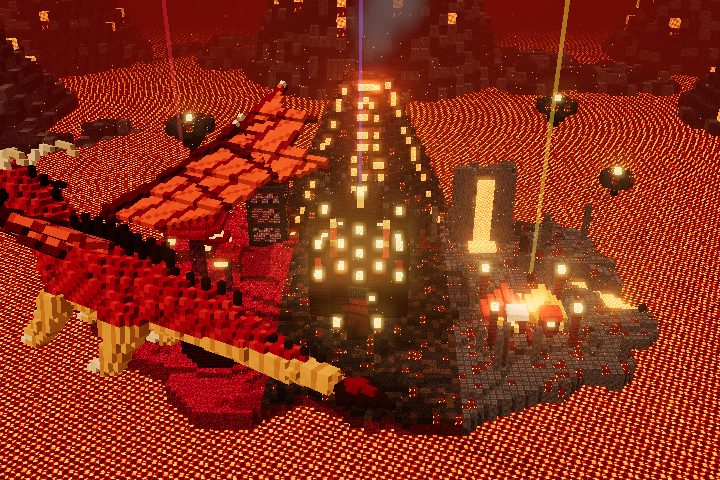
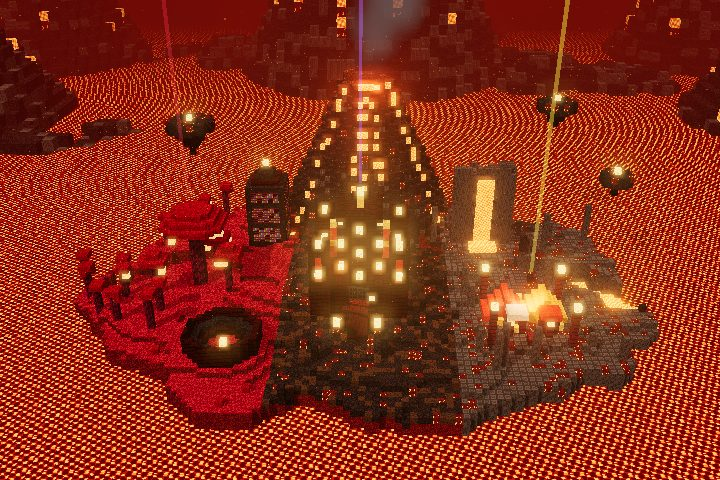
Geschmeidiger Flug, Adler verschwindet in Wolken, Weltname unter Klasse, Rang in allen Welten, weiche runde Lichter
Claude-Session: https://claude.ai/code/session_01VyrGtGhpmUQ9uCwobRxi57

diff --git a/lernwelt/welt3d.js b/lernwelt/welt3d.js
@@ -136,6 +136,8 @@ export async function start(o){
     if(d.anim) anim.push([d.side, d.anim], ...(d.top && d.top!==d.side ? [[d.top, d.anim]] : []));
     return mats[t] = [side,side,top,bot,side,side]; };
   let count = 0;
+  let _halo = null; const haloTex = () => _halo || (_halo = (()=>{ const c=document.createElement("canvas"); c.width=c.height=64; const g=c.getContext("2d"), gr=g.createRadialGradient(32,32,0,32,32,32);
+    gr.addColorStop(0,"rgba(255,255,255,1)"); gr.addColorStop(.18,"rgba(255,255,255,.75)"); gr.addColorStop(.5,"rgba(255,255,255,.18)"); gr.addColorStop(1,"rgba(255,255,255,0)"); g.fillStyle=gr; g.fillRect(0,0,64,64); return new THREE.CanvasTexture(c); })());
   const addStore = (store, cell, isFar) => { const groups = {}, g = store.get; let minY = 1e9; for(const [, b] of store.V) if(b[1]<minY) minY=b[1];
     for(const [, b] of store.V){ const [x,y,z,t] = b; if(!B[t]) continue;
       const vis = B[t].alpha || !solid(g(x+1,y,z)) || !solid(g(x-1,y,z)) || !solid(g(x,y+1,z)) || (y>minY && !solid(g(x,y-1,z))) || !solid(g(x,y,z+1)) || !solid(g(x,y,z-1));
@@ -144,7 +146,12 @@ export async function start(o){
       const mesh = new THREE.InstancedMesh(box, matsFor(t), groups[t].length);
       groups[t].forEach((b,i)=>{ dummy.position.set((b[0]+.5)*cell,(b[1]+.5)*cell,(b[2]+.5)*cell); dummy.scale.setScalar((d.scale||1)*cell); dummy.updateMatrix(); mesh.setMatrixAt(i,dummy.matrix); });
       mesh.castShadow = !isFar && !d.em && !d.alpha; mesh.receiveShadow = !isFar && !d.alpha; if(d.alpha) mesh.renderOrder = 2;
-      mesh.frustumCulled = false; scene.add(mesh); count += groups[t].length; } };
+      mesh.frustumCulled = false; scene.add(mesh); count += groups[t].length;
+      // runder, weicher Lichtschein um Lampen (statt harter Würfelkanten)
+      if(d.halo && !isFar){ const pos = new Float32Array(groups[t].length*3); groups[t].forEach((b,i)=>{ pos[i*3]=b[0]+.5; pos[i*3+1]=b[1]+.5; pos[i*3+2]=b[2]+.5; });
+        const g = new THREE.BufferGeometry(); g.setAttribute("position", new THREE.BufferAttribute(pos,3));
+        const pm = new THREE.Points(g, new THREE.PointsMaterial({color:d.halo[0], size:d.halo[1], map:haloTex(), transparent:true, opacity:d.halo[2]||.85, depthWrite:false, blending:THREE.AdditiveBlending}));
+        pm.frustumCulled = false; pm.renderOrder = 3; scene.add(pm); } } };
   addStore(api.near, 1, false);
   addStore(api.far, world.farCell || api.far.cell || 4, true);
 
@@ -178,7 +185,7 @@ export async function start(o){
     const base = new THREE.Color(p.color);
     if(p.blink){ const cc = new Float32Array(n*3); for(let i=0;i<n;i++){ cc[i*3]=base.r; cc[i*3+1]=base.g; cc[i*3+2]=base.b; } g.setAttribute("color", new THREE.BufferAttribute(cc,3)); }
     const m = new THREE.Points(g, new THREE.PointsMaterial({color:p.blink?0xffffff:p.color, vertexColors:!!p.blink, size:p.size||.3, transparent:true, opacity:p.opacity||.9, depthWrite:false,
-      ...(p.soft||p.blink ? {map:softTex} : {}), ...(p.add||p.blink?{blending:THREE.AdditiveBlending}:{}) }));
+      ...(p.square ? {} : {map:softTex}), ...(p.add||p.blink?{blending:THREE.AdditiveBlending}:{}) }));
     scene.add(m); parts.push({p, g, sp, ph, m, n, base});
   }
   // Rauch / Wolkenschwaden / Nebel
@@ -191,6 +198,7 @@ export async function start(o){
   const creatures = [];
   const legacy = (world.movers||[]).map(mv=>({ parts:[{cubes:mv.cubes.map(([x,y,z,c,em])=>[x,y,z,c,em])}], orbit:{c:mv.center, r:mv.radius, speed:mv.speed, ph:mv.ph, bob:mv.bob, legacyFace:mv.face||0}, scale:mv.scale }));
   for(const cr of (world.creatures||[]).concat(legacy)){
+    if(o.noFly && cr.orbit && cr.orbit.wander) continue;
     const outer = new THREE.Group(); outer.rotation.order = "YXZ"; const inner = new THREE.Group(); inner.scale.setScalar(cr.scale||1); outer.add(inner);
     const movers = [];
     for(const pt of cr.parts){ const pg = new THREE.Group(), piv = pt.pivot || [0,0,0]; pg.position.set(...piv);
@@ -209,7 +217,7 @@ export async function start(o){
   function safeField(R){ if(safeFields.has(R)) return safeFields.get(R);
     const pad = R+12, x0 = -pad-60, z0 = -pad-60, X = world.W+2*pad+120, Z = world.D+2*pad+120, top = new Float32Array(X*Z).fill(-50);
     const put = (x,z,y) => { const i=Math.round(x)-x0, k=Math.round(z)-z0; if(i>=0&&k>=0&&i<X&&k<Z){ const j=k*X+i; if(y>top[j]) top[j]=y; } };
-    for(const [, b] of api.near.V) put(b[0], b[2], b[1]+1);
+    for(const [, b] of api.near.V){ if(B[b[3]] && B[b[3]].soft) continue; put(b[0], b[2], b[1]+1); }
     const fc = world.farCell || api.far.cell || 4; for(const [, b] of api.far.V) for(let a=0;a<fc;a++) for(let c=0;c<fc;c++) put(b[0]*fc+a, b[2]*fc+c, (b[1]+1)*fc);
     const maxPass = (src, r, horiz) => { const out = new Float32Array(src.length);
       for(let k=0;k<Z;k++) for(let i=0;i<X;i++){ let m=-50; for(let d=-r; d<=r; d++){ const ii = horiz ? i+d : i, kk = horiz ? k : k+d; if(ii<0||kk<0||ii>=X||kk>=Z) continue; const v=src[kk*X+ii]; if(v>m) m=v; } out[k*X+i]=m; } return out; };
@@ -299,12 +307,23 @@ export async function start(o){
             const eight = w.eight ? Math.sin(th*2)*w.eight*(.5+.5*Math.sin(a*1.3)) : 0;
             return [cx + Math.cos(th)*rx*f + Math.sin(a*1.7)*(w.dx||0), cy + Math.sin(a*1.4+.3)*(w.y||0) + Math.sin(th*2)*(ob.bob??.6), cz + Math.sin(th)*rz*f + eight + Math.cos(a*1.1)*(w.dz||0)]; };
           const lift = q => { if(sf){ const m = sf(q[0], q[2]) + (ob.wander.clear ?? 10); if(q[1] < m) q[1] = m; } return q; };
-          const p0 = lift(P(t)), p1 = lift(P(t + .02*(ob.dir||1))), p2 = lift(P(t + .04*(ob.dir||1)));
-          outer.position.set(p0[0], p0[1], p0[2]);
-          const h0 = Math.atan2(-(p1[2]-p0[2]), p1[0]-p0[0]), h1 = Math.atan2(-(p2[2]-p1[2]), p2[0]-p1[0]);
-          let turn = h1-h0; if(turn>Math.PI) turn-=2*Math.PI; if(turn<-Math.PI) turn+=2*Math.PI;
-          outer.rotation.y = h0; outer.rotation.x = Math.max(-.6, Math.min(.6, -turn*14)); 
-          outer.rotation.z = Math.max(-.35, Math.min(.35, Math.atan2(p1[1]-p0[1], Math.hypot(p1[0]-p0[0], p1[2]-p0[2]))));
+          const dir = ob.dir||1, p0 = lift(P(t)), pa = lift(P(t + .09*dir)), pb = lift(P(t + .18*dir));
+          // Ziele aus weiter vorausliegenden Punkten, danach weich nachgeführt – keine Ruckler bei Richtungswechseln
+          const hA = Math.atan2(-(pa[2]-p0[2]), pa[0]-p0[0]), hB = Math.atan2(-(pb[2]-pa[2]), pb[0]-pa[0]);
+          let turn = hB-hA; if(turn>Math.PI) turn-=2*Math.PI; if(turn<-Math.PI) turn+=2*Math.PI;
+          const tBank = Math.max(-.5, Math.min(.5, -turn*2.2)), tPitch = Math.max(-.3, Math.min(.3, Math.atan2(pa[1]-p0[1], Math.hypot(pa[0]-p0[0], pa[2]-p0[2]))));
+          const st = cr._s || (cr._s = {y:p0[1], yaw:hA, bank:tBank, pitch:tPitch});
+          const k = o.still ? 1 : 1-Math.exp(-dt*1.6), kr = o.still ? 1 : 1-Math.exp(-dt*2.2);
+          st.y += (p0[1]-st.y)*k;
+          let dy = hA - st.yaw; while(dy>Math.PI) dy-=2*Math.PI; while(dy<-Math.PI) dy+=2*Math.PI; st.yaw += dy*kr;
+          st.bank += (tBank-st.bank)*k; st.pitch += (tPitch-st.pitch)*k;
+          outer.position.set(p0[0], st.y, p0[2]);
+          outer.rotation.y = st.yaw; outer.rotation.x = st.bank; outer.rotation.z = st.pitch;
+          // in Wolken ganz verschwinden: weich ausblenden, solange die Mitte in einer Wolke steckt
+          if(cr.cloudHide){ const g = api.near.get, cxp=Math.round(p0[0]), cyp=Math.round(st.y), czp=Math.round(p0[2]); let n=0;
+            for(let a=-2;a<=2;a+=2) for(let b=-2;b<=2;b+=2) for(let c=-2;c<=2;c+=2) if(g(cxp+a,cyp+b,czp+c)===cr.cloudHide) n++;
+            const tv = n>=6 ? 0 : 1; st.op = st.op ?? 1; st.op += (tv-st.op)*(o.still?1:1-Math.exp(-dt*5));
+            outer.visible = st.op > .03; outer.traverse(m=>{ if(m.material){ m.material.transparent = st.op<.99; m.material.opacity = st.op; } }); }
         } else {
         outer.position.set(cx+Math.cos(t)*rx, cy+Math.sin(t*2)*(ob.bob??.6)*move, cz+Math.sin(t)*rz);
         if(ob.legacyFace!==undefined) outer.rotation.y = -t + ob.legacyFace;

diff --git a/englisch/welt.html b/englisch/welt.html
@@ -18,6 +18,13 @@ button{font:inherit;color:inherit;cursor:pointer;-webkit-tap-highlight-color:tra
 #stage canvas{display:block}
 .ico-flag{width:1.6em;height:.8em;vertical-align:-.08em;border-radius:2px;display:inline-block;box-shadow:0 0 0 1px rgba(0,0,0,.35)}
 
+.wid{flex:0 0 auto;display:flex;flex-direction:column;align-items:flex-start;gap:3px;line-height:1}
+.wn{font:700 15px Fredoka;color:#fff;text-shadow:0 0 10px var(--ui-glow),0 2px 0 rgba(0,0,0,.5);white-space:nowrap;padding-left:2px}
+.wsp{flex:1}
+.wfl{display:inline-flex;align-items:center;gap:5px;font:700 18px Fredoka}
+.wri .rk-img{width:34px;height:34px;vertical-align:middle;margin:-6px 0}
+.wchip .wrk{min-width:110px}
+.wchip .wrk b{font-size:14px}
 .clean .wbar,.clean .wdock,.clean #labels,.clean .wpanel{display:none!important}
 /* Kopfzeile */
 .wbar{position:fixed;left:0;right:0;top:0;z-index:5;display:flex;align-items:center;gap:10px;padding:calc(10px + env(safe-area-inset-top,0)) 14px 10px;pointer-events:none}
@@ -38,7 +45,7 @@ button{font:inherit;color:inherit;cursor:pointer;-webkit-tap-highlight-color:tra
 @media (max-width:760px){ .wfin .long{display:none} } @media (min-width:761px){ .wfin .short{display:none} }
 @media (max-width:560px){
   .wbar{flex-wrap:wrap;gap:6px 8px;padding:calc(8px + env(safe-area-inset-top,0)) 10px 8px}
-  .wt{display:none} .picking .wt{display:block}
+  .wn{font-size:13px} .wfl{font-size:15px} .wri .rk-img{width:28px;height:28px} .wchip .wrk{min-width:62px} .wchip .wrk b{font-size:11px}
   .wk{font-size:15px;padding:3px 9px}
   .wchip{padding:3px 8px;font-size:14px;gap:4px}
   .wrk{min-width:58px} .wrk b{font-size:11px;max-width:84px;overflow:hidden;text-overflow:ellipsis}
@@ -197,8 +204,9 @@ async function main(){
   const allMax = KL.themen.reduce((a,t)=>a+t.max,0), sum = () => KL.themen.reduce((a,t)=>{ const p=prog(t); return a+(p?p.pts:0); },0);
   const NAME_KEY = "insel-"+KL.id+"-name"; let NAME = ""; try{ NAME = localStorage.getItem(NAME_KEY) || ""; }catch(e){}
 
-  $("#bar").innerHTML = `<span class="wk">Class ${K}</span><span class="wt">${WI.icon} ${esc(WI.name)}</span>
-    ${allMax?`<span class="wchip" id="rkChip" role="button" tabindex="0" title="${esc(RK().top?"Top rank!":RK().toNext+" more to "+RK().nextName)}">${UK} ${UH.today(K)}<span class="wrk"><b>${RK().icon} ${esc(RK().name)}</b><i><u style="width:${Math.round(RK().pct*100)}%"></u></i></span></span>`:""}
+  $("#bar").innerHTML = `<span class="wid"><span class="wk">Class ${K}</span><span class="wn">${esc(WI.name)}</span></span>
+    <span class="wchip" id="rkChip" role="button" tabindex="0" title="${esc(RK().top?"Top rank!":RK().toNext+" more to "+RK().nextName)}"><span class="wfl">${UK} ${UH.today(K)}</span><span class="wri">${RK().icon}</span><span class="wrk"><b>${esc(RK().name)}</b><i><u style="width:${Math.round(RK().pct*100)}%"></u></i></span></span>
+    <span class="wsp"></span>
     <button class="wreset" id="resetBtn" title="Reset everything / Alles zurücksetzen" aria-label="Reset everything">↺<span class="long"> Reset</span></button>
     <button class="wfin" id="finBtn"><span class="chk" aria-hidden="true"></span><span class="long">If you’re finished, click here</span><span class="short">Finished?</span></button>`;
   $("#dock").innerHTML = BER.map(b=>`<button data-kat="${b}" aria-pressed="false"><span aria-hidden="true">${icons[b]}</span><span class="lbl-long">${esc(names[b])}</span><span class="n">${counts[b]}</span></button>`).join("");
@@ -209,7 +217,7 @@ async function main(){
     const mod = await import(`../lernwelt/welten/${WI.file}.js`);
     const { start } = await import("../lernwelt/welt3d.js");
     let ui = null;
-    W3 = await start({ seed:K*101, canvasHost:$("#stage"), labelHost:$("#labels"), names, counts, icons, lite: new URLSearchParams(location.search).has("lite"), still: new URLSearchParams(location.search).has("still"), stillTime: +new URLSearchParams(location.search).get("tt") || undefined, banner: new URLSearchParams(location.search).has("banner"),
+    W3 = await start({ seed:K*101, canvasHost:$("#stage"), labelHost:$("#labels"), names, counts, icons, lite: new URLSearchParams(location.search).has("lite"), still: new URLSearchParams(location.search).has("still"), stillTime: +new URLSearchParams(location.search).get("tt") || undefined, banner: new URLSearchParams(location.search).has("banner"), noFly: new URLSearchParams(location.search).has("nofly"),
       build: api => { const w = mod.build(api); ui = w.ui; spotsInfo = w.spots; return w; }, onSelect: k => openArea(k) });
     if(ui) for(const k in ui) document.documentElement.style.setProperty("--ui-"+k, ui[k]);
     window.__blocks = W3.count;

diff --git a/lernwelt/welten/himmel.js b/lernwelt/welten/himmel.js
@@ -19,10 +19,10 @@ export function build(A){
   const blocks = {
     grass:{side:T.grassSide, top:T.grass, bottom:T.dirt}, dirt:{side:T.dirt}, rock:{side:T.rock},
     quartz:{side:T.quartz}, qbrick:{side:T.qbrick}, qpillar:{side:T.qpillar, top:T.quartz}, roof:{side:T.roof}, gold:{side:T.gold, em:.25}, window:{side:T.window, em:.9},
-    water:{side:T.water, alpha:.75, anim:[0,-.6], em:.2}, pool:{side:T.water, alpha:.8, anim:[.05,.03], em:.15}, cloud:{side:T.cloud, alpha:.92, em:.15},
+    water:{side:T.water, alpha:.75, anim:[0,-.6], em:.2}, pool:{side:T.water, alpha:.8, anim:[.05,.03], em:.15}, cloud:{side:T.cloud, alpha:.92, em:.15, soft:true}, cloudS:{side:T.cloud, em:.3, soft:true},
     blossom:{side:T.leaves}, leaves:{side:T.leavesG}, log:{side:T.log, top:T.logTop}, planks:{side:T.planks},
     woolR:{side:T.woolR}, woolW:{side:T.woolW}, woolY:{side:T.woolY}, iron:{side:T.iron}, rope:{side:T.rope},
-    flowerR:{side:T.flowerR}, flowerY:{side:T.flowerY}, flowerB:{side:T.flowerB}, crystal:{side:T.crystal, em:1.0}, snowP:{side:T.snowP}, lamp:{side:T.lamp, em:1.1}
+    flowerR:{side:T.flowerR}, flowerY:{side:T.flowerY}, flowerB:{side:T.flowerB}, crystal:{side:T.crystal, em:1.0}, snowP:{side:T.snowP}, lamp:{side:T.lamp, em:1.1, scale:.6, halo:[0xFFE6A8,3.4,.75]}
   };
   const W=92, D=70;
   // Schwebende Insel: Oberfläche bei yt, darunter ein zerklüfteter Felskegel
@@ -109,9 +109,9 @@ export function build(A){
   // Wolken als Blöcke
   for(let i=0;i<16;i++){ const cx=rand()*W, cz=rand()*D, cy=6+rand()*30; if(Object.values(S).some(s=>Math.hypot(s.x-cx,s.z-cz)<s.r+4)) continue;
     for(let k=0;k<4;k++){ const ox=cx+(rand()-.5)*8, oz=cz+(rand()-.5)*5; fill(Math.round(ox-2),Math.round(cy),Math.round(oz-1),Math.round(ox+2),Math.round(cy+1),Math.round(oz+1),"cloud"); } }
-  // dichte Wolkenbank hinter dem Schloss – der Adler fliegt ab und zu hindurch
-  for(let i=0;i<26;i++){ const a = Math.PI*(1.18 + i*.025), cx = 46 + Math.cos(a)*30, cz = 16 + Math.sin(a)*22 + (rand()-.5)*3, cy = 44 + (rand()-.5)*4;
-    ellip(cx, cy, cz, 4+rand()*3, 2.2+rand()*1.6, 3+rand()*2, "cloud"); }
+  // dichte Wolkenbänke hinten links und rechts – der Adler taucht hinein und verschwindet ganz
+  for(const a0 of [1.18, 1.62]) for(let i=0;i<7;i++){ const a = Math.PI*(a0 + i*.035), rr = 44 + (rand()-.5)*8, cx = 46 + Math.cos(a)*58*rr/44, cz = 24 + Math.sin(a)*rr, cy = 46 + (rand()-.5)*3;
+    ellip(cx, cy, cz, 10+rand()*4, 7+rand()*2, 12+rand()*3, "cloudS"); ellip(cx+(rand()-.5)*8, cy+5, cz+(rand()-.5)*6, 7, 4, 7, "cloudS"); }
   // Kristalle unter den Inseln
   for(const s of Object.values(S)) for(let i=0;i<6;i++){ const a=rand()*Math.PI*2, x=Math.round(s.x+Math.cos(a)*s.r*.5), z=Math.round(s.z+Math.sin(a)*s.r*.5); let y=s.y-4; while(get(x,y,z) && y>s.y-40) y--; for(let k=0;k<3;k++) set(x,y-k,z,"crystal"); }
 
@@ -130,7 +130,7 @@ export function build(A){
   for(const [x,y,z,r,d] of [[-44,30,-24,9,"tree"],[146,38,-14,10,"tower"],[96,52,-74,12,"fall"],[0,46,-94,9,"tree"],[-96,26,40,8,"fall"],[186,30,58,9,"tree"],[60,64,-150,14,"tower"],[-120,58,-110,12,"tree"],[230,50,-60,11,"fall"],[-70,40,-48,6,"tower"]]) farIsland(x,y,z,r,d);
 
   // Riesiger Adler und kleine Vögel
-  const creatures = [{ ...eagle(), orbit:{c:[46,46,24], r:[58,44], speed:.09, ph:3.6, bob:2, wander:{f:.27, r:.18, y:6, eight:6, dx:10, dz:10, span:10, clear:5}}, scale:.42 },
+  const creatures = [{ ...eagle(), orbit:{c:[46,46,24], r:[58,44], speed:.09, ph:3.6, bob:2, wander:{f:.27, r:.18, y:6, eight:6, dx:10, dz:10, span:10, clear:5}}, scale:.42, cloudHide:"cloudS" },
                      { ...eagle(), orbit:{c:[60,70,-90], r:[90,40], speed:.06, ph:3, bob:4, bank:-.25}, scale:.6, noShadow:true }];
   for(let i=0;i<9;i++) creatures.push({ ...bird(i%3?0xFFFFFF:0xE8EEF8), orbit:{c:[46+(i%3)*2,30+(i%4),30+(i%2)*3], r:[40,24], speed:.12, ph:i*.1, bob:1}, scale:.5, noShadow:true });
   const ship=[]; for(let a=-4;a<=4;a++){ ship.push([a,0,0,0xC08A50],[a,0,1,0xC08A50],[a,0,-1,0xC08A50]); for(let b=-2;b<=2;b++) for(let c=-2;c<=2;c++) if((a/4.6)**2+(b/2.2)**2+(c/2.2)**2<=1) ship.push([a,4+b,c, (a+8)%3?0xF4F4F4:0x3A78E0]); }

diff --git a/index.html b/index.html
@@ -55,7 +55,7 @@ main{max-width:1120px;margin:0 auto;padding:1.4rem 1.2rem 3rem}
 .cls{background:#fff;border:1px solid var(--line);border-radius:18px;overflow:hidden;display:flex;flex-direction:column;box-shadow:0 1px 0 var(--line)}
 .cls-map{position:relative;background:#3A9FE0;aspect-ratio:16/9;overflow:hidden}
 .cls-map img{position:absolute;inset:0;width:100%;height:100%;object-fit:cover}
-.cls-w{position:absolute;left:.6rem;bottom:.6rem;display:flex;align-items:center;gap:.35rem;background:rgba(0,0,0,.62);color:#fff;border-radius:12px;padding:.15rem .7rem .15rem .2rem;font-family:"Fredoka",sans-serif;font-weight:600;font-size:1.05rem}
+.cls-w{position:absolute;left:.6rem;bottom:.6rem;display:flex;align-items:center;gap:.35rem;background:rgba(0,0,0,.62);color:#fff;border-radius:12px;padding:.15rem .7rem;font-family:"Fredoka",sans-serif;font-weight:600;font-size:1.05rem}
 .cls-map .cls-wi{position:static;inset:auto;width:46px;height:46px;object-fit:contain;margin:-14px 0 -4px;filter:drop-shadow(0 2px 3px rgba(0,0,0,.5))}
 .cls-k{position:absolute;left:.7rem;top:.7rem;background:var(--sun);border:3px solid var(--ink);border-radius:12px;padding:.05rem .6rem;font-family:"Fredoka",sans-serif;font-weight:700;font-size:1.15rem;box-shadow:2px 2px 0 var(--ink)}
 .cls-body{padding:.9rem 1rem 1rem;display:flex;flex-direction:column;gap:.6rem;flex:1}
@@ -193,7 +193,7 @@ function englisch(){
     const bereiche = FRS.bereicheFuer(c.k);
     const list = bereiche.flatMap(b=>c.themen.filter(t=>t.kat===b));
     return `<article class="cls">
-      <div class="cls-map"><img src="englisch/welten/vorschau-k${c.k}.jpg" alt="" loading="lazy"><span class="cls-k">Klasse ${c.k}</span><span class="cls-w"><img class="cls-wi" src="lernwelt/raenge/world-k${c.k}.webp" alt="">${esc(FRS.welt(c.k).name)}</span></div>
+      <div class="cls-map"><img src="englisch/welten/vorschau-k${c.k}.jpg" alt="" loading="lazy"><span class="cls-k">Klasse ${c.k}</span><span class="cls-w">${esc(FRS.welt(c.k).name)}</span></div>
       <div class="cls-body">
         <div class="cls-t"><b>${esc(FRS.welt(c.k).name)}</b><span>${list.length} ${list.length===1?"Lernwelt":"Lernwelten"} · ${bereiche.length} Bereiche</span></div>
         ${list.length ? `<details class="tdet" data-k="${c.k}"${OPEN.has(c.k)?" open":""}><summary><span class="ts-n">${bereiche.filter(b=>c.themen.some(t=>t.kat===b)).map(b=>`<span>${FRS.kategorien[b].icon} ${c.themen.filter(t=>t.kat===b).length}</span>`).join("")}</span><span class="ts-l">Lernwelten anzeigen</span><span class="ts-a" aria-hidden="true">▾</span></summary>

diff --git a/lernwelt/welten/wald.js b/lernwelt/welten/wald.js
@@ -25,7 +25,7 @@ export function build(A){
     grass:{side:T.grassSide, top:T.grass, bottom:T.dirt}, dirt:{side:T.dirt}, stone:{side:T.stone}, moss:{side:T.moss},
     bark:{side:T.bark, top:T.barkTop}, leaves:{side:T.leaves}, leaves2:{side:T.leaves2}, leafRoof:{side:T.leafRoof}, mossRoof:{side:T.mossRoof},
     elfWood:{side:T.elfWood}, elfWoodD:{side:T.elfWoodD}, elfStone:{side:T.elfStone}, elfPillar:{side:T.elfPillar, top:T.elfFloor}, elfFloor:{side:T.elfStone, top:T.elfFloor},
-    win:{side:T.win, em:.95}, lantern:{side:T.lantern, em:1.25}, gold:{side:T.gold, em:.25},
+    win:{side:T.win, em:.95}, lantern:{side:T.lantern, em:1.1, scale:.55, halo:[0xFFC870,4.2,.8]}, gold:{side:T.gold, em:.25},
     water:{side:T.water, anim:[.04,.02], em:.12}, fall:{side:T.fall, alpha:.8, anim:[0,-.9], em:.35}, moon:{side:T.moon, em:.3, anim:[.02,.03]},
     planks:{side:T.planks}, rope:{side:T.rope}, flowerB:{side:T.flowerB, em:.6}, flowerW:{side:T.flowerW, em:.3}, mush:{side:T.mush}, glowMush:{side:T.glowMush, em:1.0},
     rune:{side:T.rune, top:T.stone, em:.35}
@@ -178,9 +178,7 @@ export function build(A){
     planes:[{y:WL+.4, tex:T.water, repeat:300, size:1000, em:.1, anim:[.02,.01]}],
     rays:{n:18, color:0xFFE6A8, area:[-30,W+30,-30,D], y:46, len:90},
     particles:[{n:420, area:[-10,W+10,3,40,-10,D+10], vy:0, wob:1.1, color:0xE8FF7A, size:.9, blink:1.3},
-               {n:160, area:[-120,W+120,4,50,-140,-10], vy:0, wob:1.4, color:0xE8FF7A, size:1.8, blink:1},
-               {n:70, area:[S.vocabulary.x-3,S.vocabulary.x+3,13,24,S.vocabulary.z-3,S.vocabulary.z+3], vy:1.4, wob:.4, color:0x6AD4E0, size:.25, add:true, twinkle:true},
-               {n:120, area:[20,76,30,62,10,44], vy:-.5, wob:1.4, color:0xB8E070, size:.3, opacity:.85}],
+               {n:160, area:[-120,W+120,4,50,-140,-10], vy:0, wob:1.4, color:0xE8FF7A, size:1.8, blink:1}],
     puffs:[{n:30, pos:[-60,5,-30], dx:220, dy:1, dz:30, s0:22, s1:20, color:0xCFE6DA, opacity:.42, speed:.01, spread:70, flat:.35, sz:1.2},
            {n:18, pos:[-20,8,40], dx:140, dy:2, dz:0, s0:14, s1:14, color:0xDDEEE4, opacity:.25, speed:.014, spread:30, flat:.4}],
     home:{pos:[W/2,48,D+78], look:[W/2,22,D/2-8]}, homePortrait:{pos:[W/2,62,D+108], look:[W/2,20,D/2-8]},

diff --git a/lernwelt/welten/stein.js b/lernwelt/welten/stein.js
@@ -27,7 +27,7 @@ export function build(A){
   const blocks = {
     stone:{side:T.stone}, deep:{side:T.deep}, flag:{side:T.sbrick, top:T.flag}, sbrick:{side:T.sbrick}, chisel:{side:T.chisel, top:T.sbrick}, statue:{side:T.statue},
     gold:{side:T.gold, em:.35}, planks:{side:T.planks}, log:{side:T.log, top:T.planks}, iron:{side:T.iron}, dark:{side:T.dark},
-    lava:{side:T.lava, em:1.25, anim:[.1,.06]}, glow:{side:T.glow, em:1.3}, door:{side:T.door, em:.75}, win:{side:T.win, em:1.0}, rune:{side:T.rune, top:T.sbrick, em:.6},
+    lava:{side:T.lava, em:1.25, anim:[.1,.06]}, glow:{side:T.glow, em:1.3, halo:[0xFFB84A,3.6,.6]}, door:{side:T.door, em:.75}, win:{side:T.win, em:1.0}, rune:{side:T.rune, top:T.sbrick, em:.6},
     amethyst:{side:T.amethyst, em:1.0}, emerald:{side:T.emerald, em:.9}, sapphire:{side:T.sapphire, em:1.0}, ruby:{side:T.ruby, em:.95},
     goldOre:{side:T.goldOre}, diaOre:{side:T.diaOre, em:.15}, woolR:{side:T.woolR}, woolB:{side:T.woolB}, woolY:{side:T.woolY}, shroom:{side:T.shroom, em:1.0},
     chain:{side:T.chain, alpha:.99, cross:true}

diff --git a/lernwelt/welten/eis.js b/lernwelt/welten/eis.js
@@ -23,7 +23,7 @@ export function build(A){
     snow:{side:T.snowSide, top:T.snow, bottom:T.frost}, snowB:{side:T.snow}, frost:{side:T.frost}, floorIce:{side:T.frost, top:T.floorIce, em:.08},
     iceBrick:{side:T.iceBrick}, iceTrim:{side:T.iceTrim}, carved:{side:T.carved, top:T.iceBrick}, pillar:{side:T.pillar, top:T.pillarTop, em:.38},
     spire:{side:T.spire, top:T.snow}, win:{side:T.win, em:.9}, door:{side:T.door, em:.7}, dark:{side:T.dark},
-    icicle:{side:T.icicle, alpha:.85, em:.35}, crystal:{side:T.crystal, em:1.0}, violet:{side:T.violet, em:1.0}, lamp:{side:T.lamp, em:1.3}, silver:{side:T.silver}
+    icicle:{side:T.icicle, alpha:.85, em:.35}, crystal:{side:T.crystal, em:1.0}, violet:{side:T.violet, em:1.0}, lamp:{side:T.lamp, em:1.3, scale:.6, halo:[0xBFF4FF,3.4,.75]}, silver:{side:T.silver}
   };
   const W=92, D=72, G=5;  // G: Boden
   // Boden: Schnee, eisiger Weg zum Tor, Schneewehen an den Rändern, hinten Eisklippen
